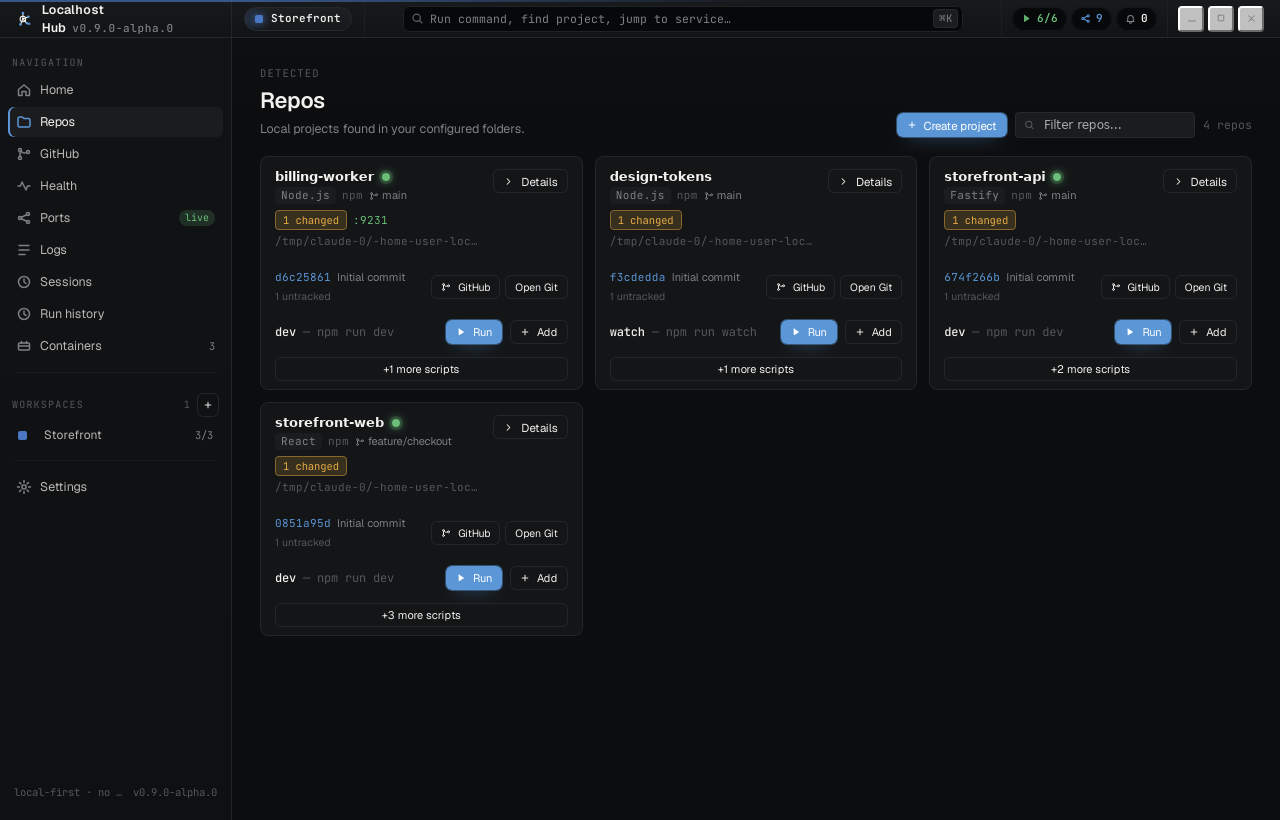
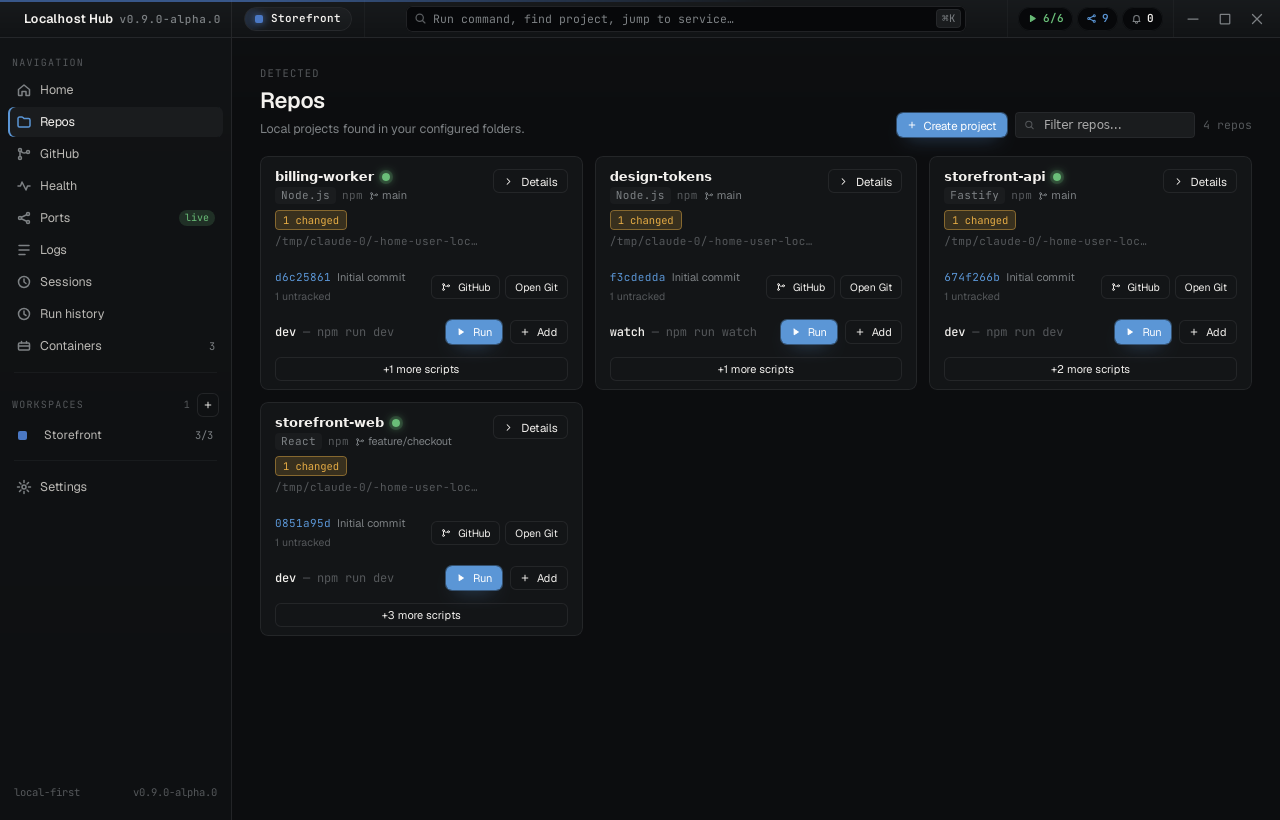
Fix the title bar window controls
The minimise, maximise and close buttons were being drawn by the platform
webview, not by the application. Their rule set styled a size, a colour and a
hover, but never reset the default button appearance, so WebKitGTK painted its
own button underneath: a light fill, a border and a drop shadow. On a dark title
bar that reads as three pale boxes with a barely visible mark inside each.

Reset the appearance explicitly, and fix three smaller defects that the fill was
hiding:

- The four glyphs were rendered at three different sizes (12, 11 and 10) against
  a stroke width fixed in view box units, so each button ended up with a
  different stroke weight and a different optical width — the minimise dash was
  noticeably heavier and wider than the close cross.
- Maximise used a 1-unit corner radius, which at roughly five drawn pixels reads
  as a rounded blob rather than a square.
- The glyphs sat off centre, because minimise was drawn as a baseline rule at
  y=12 in a box centred on 8.

The window controls now have their own glyphs, drawn inside one box centred on
(8, 8) and rendered at one size with one stroke, because they sit beside each
other and any difference between them reads as a mistake. Also gave each control
an aria-label and a focus outline, since they had neither.

Separately, two settings fields wrap their label and hint in an element outside
the field's grid gap. Both are inline, so they rendered as one run-on line:
[…]

Changed region(s): [[0.8125, 0.0, 1.0, 0.061], [0.3125, 0.0, 0.5625, 0.0305], [0.0, 0.0, 0.1562, 0.061]]

diff --git a/src/styles.css b/src/styles.css
@@ -341,17 +341,38 @@ html[data-sidebar="wide"] .titlebar:not(.tb-v2) { grid-template-columns: 280px 1
 }
 .tb-icon-btn:hover { background: var(--bg-2); color: var(--fg-1); }
 
-.win-controls { display: inline-flex; gap: 4px; margin-left: 6px; padding-right: 8px; }
+/* Window controls.
+   These must reset the button appearance explicitly. Without `appearance: none`
+   the platform webview draws its own button — a light fill, a border and a drop
+   shadow — under the glyph, which on a dark title bar renders three pale boxes
+   with a barely visible mark inside each. */
+.win-controls { display: inline-flex; gap: 2px; }
 .win-controls .wc {
-  width: 26px; height: 26px;
+  appearance: none;
+  -webkit-appearance: none;
+  background: transparent;
+  border: 1px solid transparent;
+  box-shadow: none;
+  margin: 0;
+  padding: 0;
+  font: inherit;
+  width: 30px; height: 26px;
   display: grid; place-items: center;
-  border-radius: 4px;
+  border-radius: var(--r-1);
   color: var(--fg-3);
   cursor: default;
-  transition: background 100ms, color 100ms;
+  transition: background 120ms, color 120ms;
 }
+.win-controls .wc svg { display: block; }
 .win-controls .wc:hover { background: var(--bg-2); color: var(--fg-1); }
+.win-controls .wc:active { background: var(--bg-3); }
+.win-controls .wc:focus-visible {
+  outline: none;
+  border-color: var(--blue);
+  color: var(--fg-1);
+}
 .win-controls .wc.close:hover { background: oklch(0.55 0.19 25); color: white; }
+.win-controls .wc.close:active { background: oklch(0.47 0.17 25); color: white; }
 
 /* ─── Sidebar ────────────────────────────────────────── */
 .sidebar {
@@ -2202,6 +2223,12 @@ html[data-sidebar="collapsed"] .sb-ws .count { display: none; }
   color: var(--fg-4);
   font-size: 11.5px;
 }
+/* Some fields wrap their label and hint in a plain div, which puts them outside
+   the field's own grid gap. Both are inline, so without this they run together
+   on one line as "CLOSING TO THE TRAYKeeps supervised services…". */
+.settings-field > div > label,
+.settings-field > div > span { display: block; }
+.settings-field > div > label { margin-bottom: 5px; }
 .settings-segmented {
   display: grid;
   grid-template-columns: repeat(3, minmax(0, 1fr));

diff --git a/src/chrome.tsx b/src/chrome.tsx
@@ -17,6 +17,13 @@ interface TitleBarProps {
   pulse: number[];
 }
 
+// The window controls are drawn at the icons' native 16-unit box, so one view
+// box unit is one CSS pixel and the geometry lands exactly where it was drawn.
+// One size and one stroke for all four glyphs is the point: they sit next to
+// each other, so any difference between them reads as a mistake.
+const WIN_GLYPH = 16;
+const WIN_STROKE = 1.25;
+
 function getWin() {
   try { return getCurrentWindow(); } catch { return null; }
 }
@@ -100,11 +107,23 @@ export function TitleBar({
 
       <div className="tb-right">
         <div className="win-controls">
-          <button className="wc" title="Minimize" onClick={() => win?.minimize()}><Ic.Min size={12} /></button>
-          <button className="wc" title={maximized ? "Restore" : "Maximize"} onClick={() => win?.toggleMaximize()}>
-            {maximized ? <Ic.Restore size={10} /> : <Ic.Square size={10} />}
+          <button type="button" className="wc" title="Minimize" aria-label="Minimize" onClick={() => win?.minimize()}>
+            <Ic.WinMin size={WIN_GLYPH} sw={WIN_STROKE} />
           </button>
-          <button className="wc close" title="Close" onClick={() => win?.close()}><Ic.Close size={11} /></button>
+          <button
+            type="button"
+            className="wc"
+            title={maximized ? "Restore" : "Maximize"}
+            aria-label={maximized ? "Restore" : "Maximize"}
+            onClick={() => win?.toggleMaximize()}
+          >
+            {maximized
+              ? <Ic.WinRestore size={WIN_GLYPH} sw={WIN_STROKE} />
+              : <Ic.WinMax size={WIN_GLYPH} sw={WIN_STROKE} />}
+          </button>
+          <button type="button" className="wc close" title="Close" aria-label="Close" onClick={() => win?.close()}>
+            <Ic.WinClose size={WIN_GLYPH} sw={WIN_STROKE} />
+          </button>
         </div>
       </div>
     </div>

diff --git a/src/icons.tsx b/src/icons.tsx
@@ -59,6 +59,16 @@ export const Ic = {
   Min:      wrap(<><path d="M3.5 12h9"/></>),
   Square:   wrap(<><rect x="3.5" y="3.5" width="9" height="9" rx="1"/></>),
   Restore:  wrap(<><rect x="5" y="3" width="8" height="8" rx="1"/><path d="M3 5v8a1 1 0 0 0 1 1h8"/></>),
+
+  // Window controls. Kept separate from the glyphs above because they have to
+  // agree with each other: all four are drawn inside the same box, centred on
+  // (8, 8), so rendered at one size they share a stroke weight and optical
+  // width. Reusing the general-purpose glyphs meant three different sizes and
+  // therefore three different stroke weights sitting side by side.
+  WinMin:     wrap(<><path d="M3 8h10"/></>),
+  WinMax:     wrap(<><rect x="3.25" y="3.25" width="9.5" height="9.5" rx="0.5"/></>),
+  WinRestore: wrap(<><rect x="5.5" y="2.5" width="8" height="8" rx="1"/><path d="M2.5 5.5v7a1 1 0 0 0 1 1h7"/></>),
+  WinClose:   wrap(<><path d="M3.5 3.5l9 9M12.5 3.5l-9 9"/></>),
   Db:       wrap(<><ellipse cx="8" cy="4" rx="5" ry="1.5"/><path d="M3 4v8c0 .8 2.2 1.5 5 1.5s5-.7 5-1.5V4"/><path d="M3 8c0 .8 2.2 1.5 5 1.5s5-.7 5-1.5"/></>),
   Globe:    wrap(<><circle cx="8" cy="8" r="5.5"/><path d="M2.5 8h11"/><path d="M8 2.5c2 2 2 9 0 11M8 2.5c-2 2-2 9 0 11"/></>),
   Cpu:      wrap(<><rect x="4" y="4" width="8" height="8" rx="1"/><rect x="6.5" y="6.5" width="3" height="3"/><path d="M6 2v2M10 2v2M6 12v2M10 12v2M2 6h2M2 10h2M12 6h2M12 10h2"/></>),

diff --git a/CHANGELOG.md b/CHANGELOG.md
@@ -193,6 +193,20 @@ and this project adheres to [Semantic Versioning](https://semver.org/spec/v2.0.0
 
 ### Fixed
 
+- Fixed the window controls in the title bar, which were drawn by the platform webview
+  rather than by the application. Their stylesheet never reset the default button
+  appearance, so minimise, maximise and close rendered as three pale filled boxes with
+  drop shadows and a barely visible mark inside each — the opposite of the flat dark
+  chrome around them. They are now flat glyphs that light up on hover, with close
+  turning red. The four glyphs were also drawn at three different sizes against a fixed
+  stroke width, which gave each button a different stroke weight and optical size; they
+  now share one size and one weight, and maximise is a square rather than a rounded
+  blob. Added `aria-label` to each control, and a focus outline for keyboard use.
+
+- Fixed a settings label running into its own description. Two fields wrap their label
+  and hint in an element outside the field's grid gap, and both are inline, so they
+  rendered as a single run-on line — `CLOSING TO THE TRAYKeeps supervised services…`.
+
 - Corrected version and storage labels in the interface. The title bar and sidebar
   showed a hardcoded `v2.0`, and the sidebar described local storage as `sqlite`, which
   left with the Electron implementation. Both now reflect reality: the version comes
